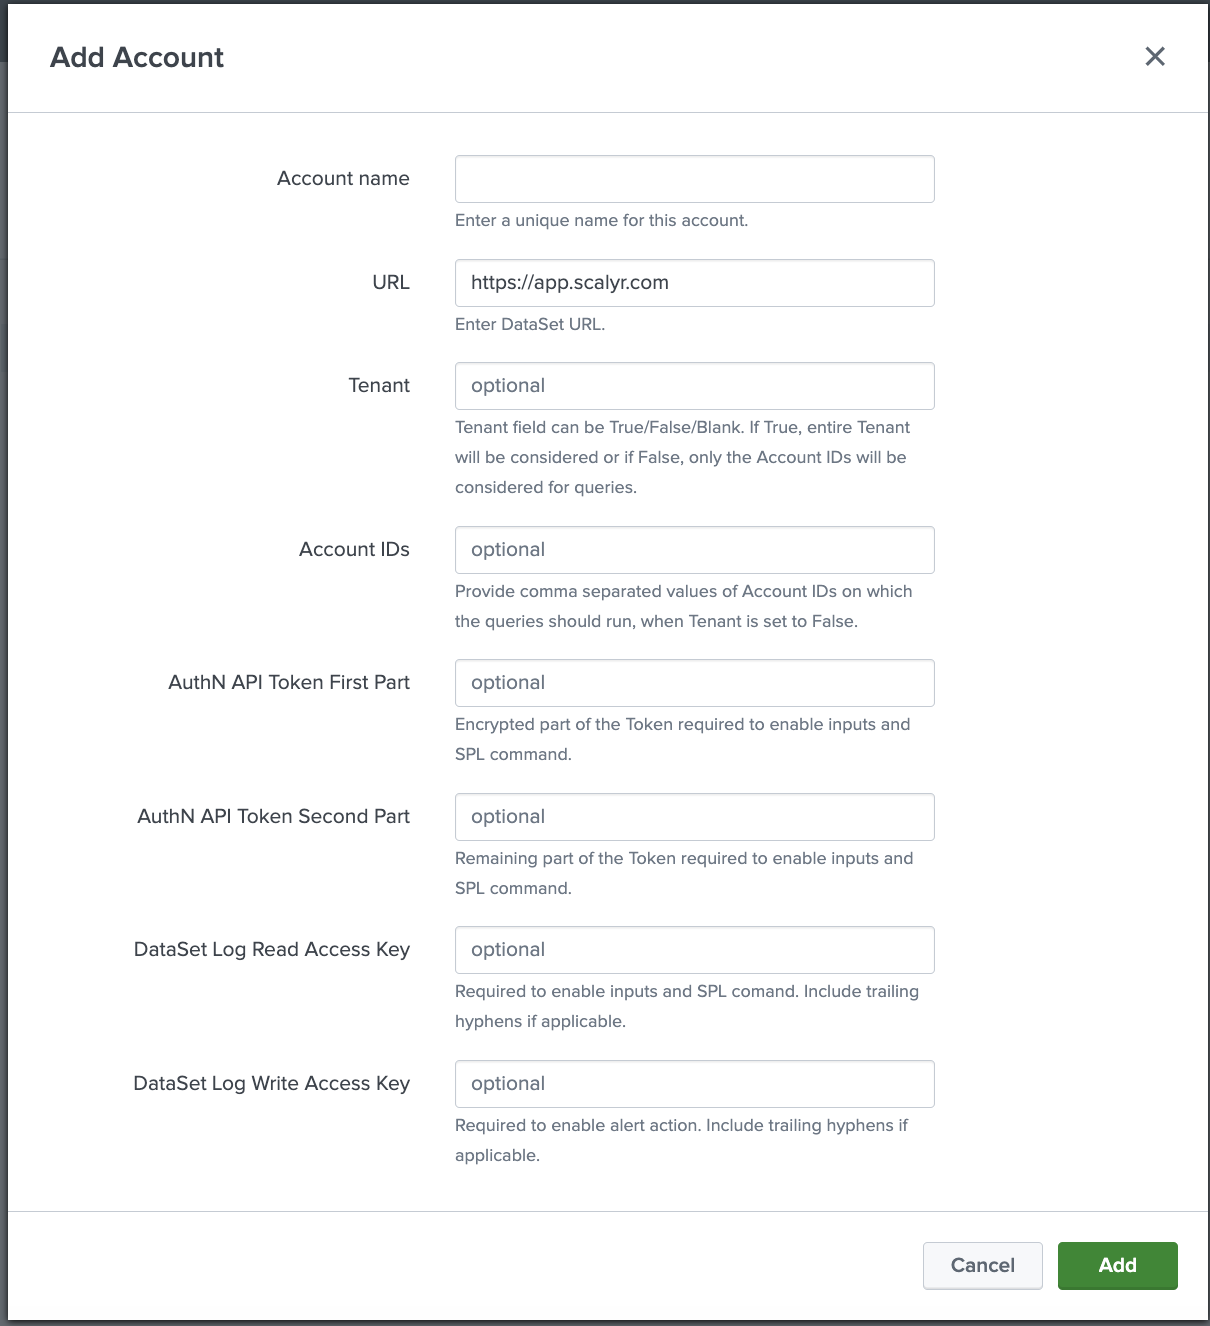
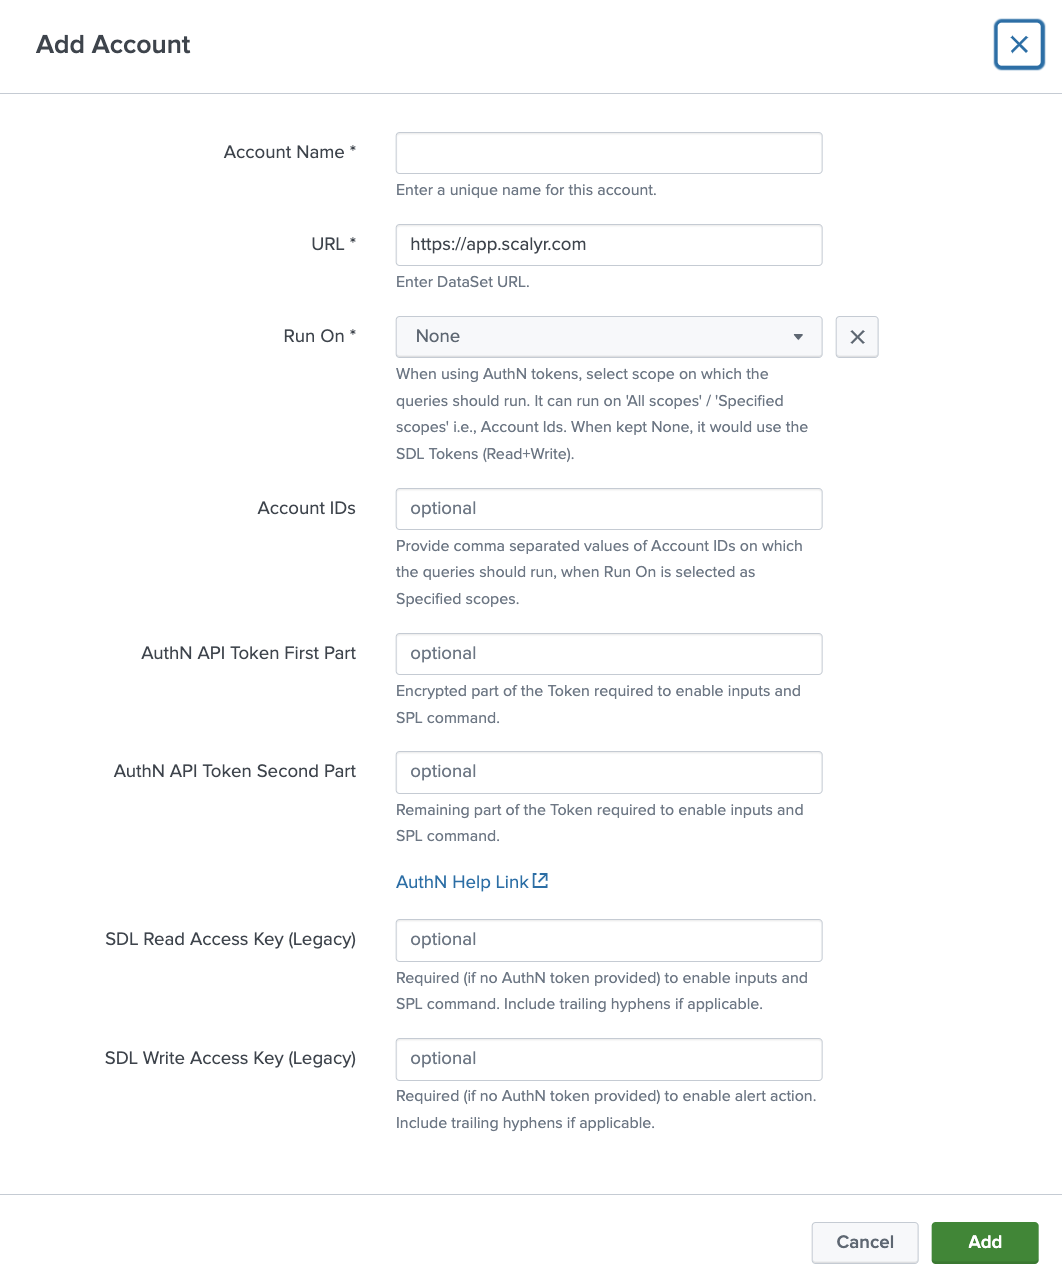
[MAPPS-2572] fix: updating the readme

diff --git a/README.md b/README.md
@@ -70,8 +70,11 @@ To get the AuthN API token follow the below mentioned details:
 - Click Add
 - Enter a user-friendly account name. For multiple accounts, the account name can be used in queries (more details below).
 - Enter the full URL noted above (e.g.: `https://app.scalyr.com`, `https://xdr.us1.sentinelone.net` or `https://xdr.eu1.sentinelone.net`).
-- Select Run On value, it can be 'All scopes' / 'Specified scopes' / 'None'. If set to All scopes, the queries will run for the entire Tenant ot if set to Specified scopes, provide Account IDs as a comma separated values to run searches in those specific accounts. Leave it to default None value if you are not trying to use the Tenant level searches in this case you need to provide the anyone of the legacy API Tokens.
-- Provide the comma seperated Account Ids, if Tenant is False. eg: 1234567890,9876543210.
+- Select the "Run On" value, which can be 'All scopes', 'Specified scopes', or 'None'.
+    - If set to **All scopes**, the queries will run for the entire tenant.
+    - If set to **Specified scopes**, provide Account IDs as comma-separated values to run searches in those specific accounts.
+    - Leave it to the default value of **None** if you are not trying to use tenant-level searches; in this case, you need to provide one of the legacy API tokens.
+- Provide the comma seperated Account Ids, if "Run On" is set to **Specified scopes**. eg: 1234567890,9876543210.
 - Enter the AuthN API Token First part which includes first 220 characters.
 - Enter the AuthN API Token Second part which includes remaining characters.
     - Use this command to prepare both parts of AuthN API token:
